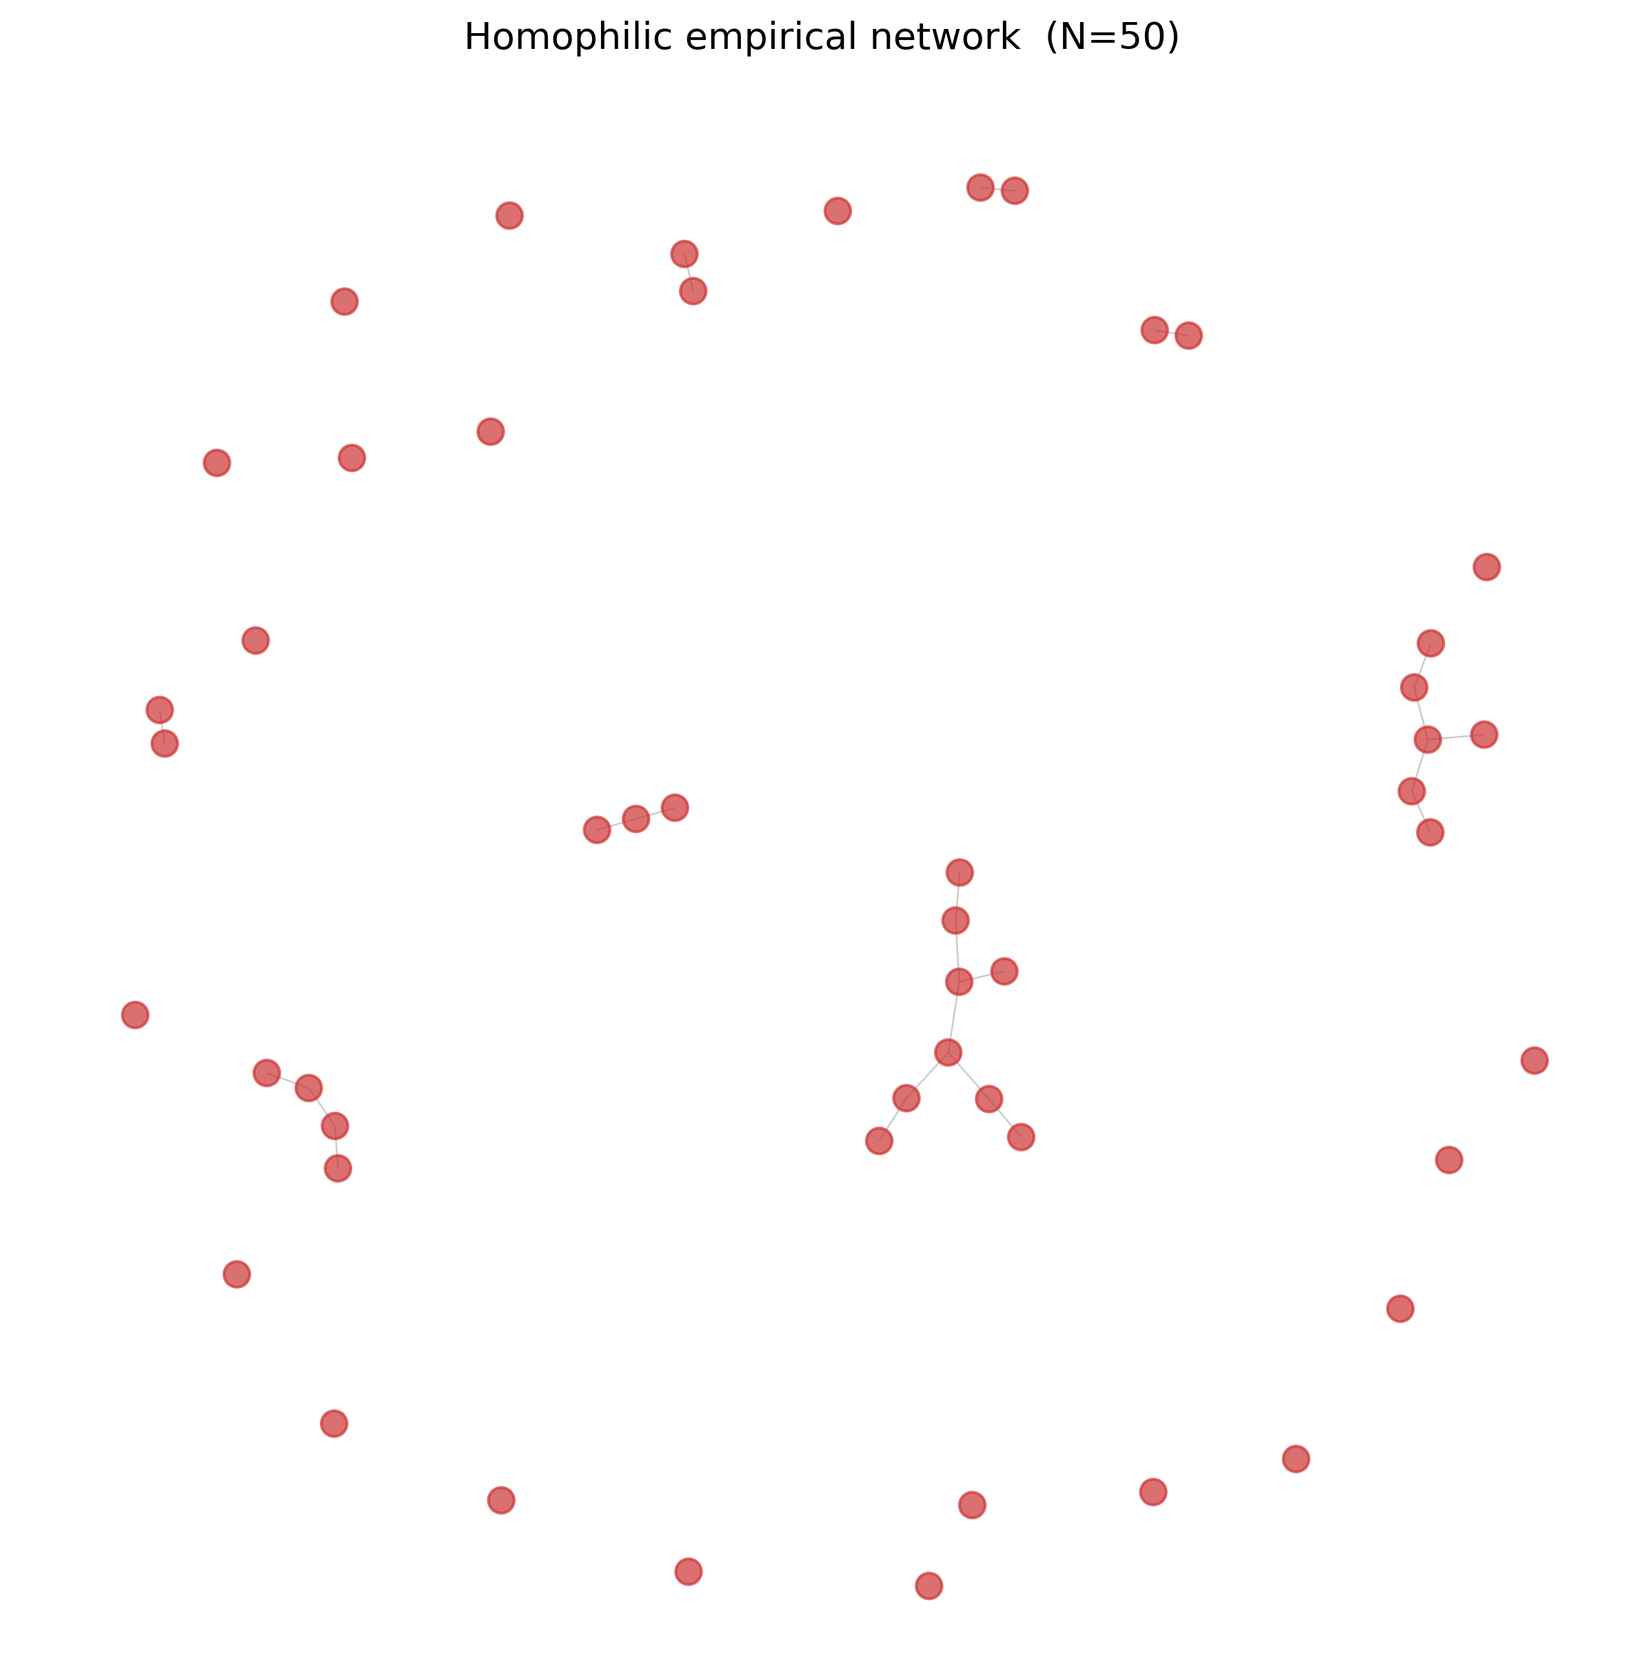
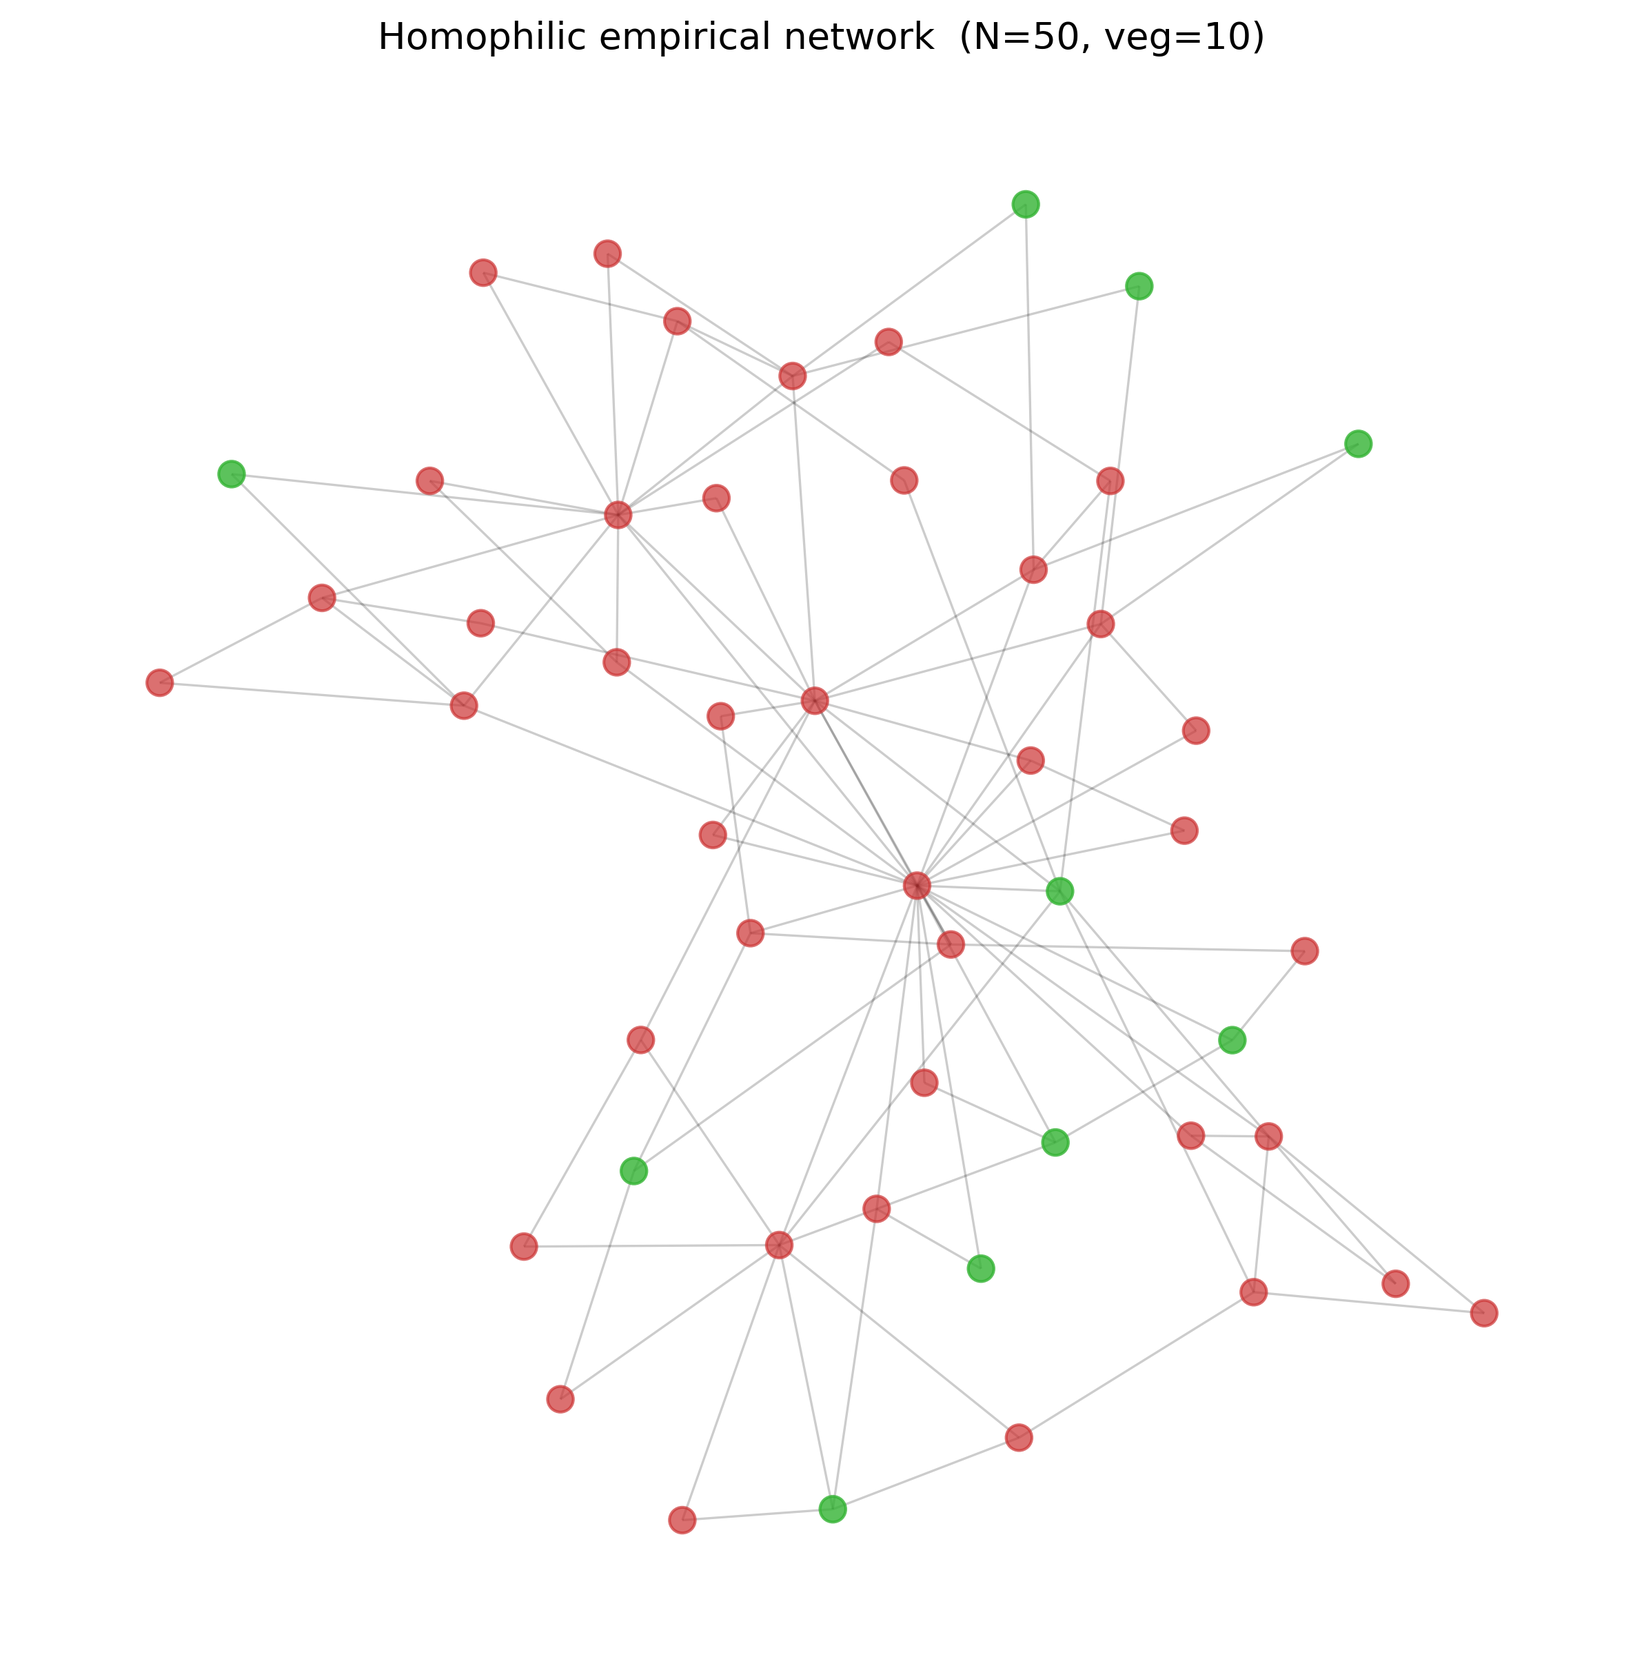
reverting the reduction from cascadde chains

diff --git a/model_src/model_main_cumulative_test.py b/model_src/model_main_cumulative_test.py
@@ -63,7 +63,6 @@ params = {
     "alpha_max": 0.80,
     "mu": 0.3,
     "gamma": 0.3,  # diminishing returns exponent: n contacts from same source -> n^gamma effective
-    "tau_persistence": 5000,  # dwell-time half-saturation (Takaguchi et al. 2012): parent veg duration for temporal weight
 }
 
 
@@ -180,7 +179,7 @@ class Agent():
         self.C = self.diet_emissions(self.diet)
         self.memory = []  # list of (diet, source_id) tuples
         self.survey_id = kwargs.get('survey_id', i)
-        self.reduction_out = 0  # cumulative cascade credit (monotonically non-decreasing; Zhou et al. 2014)
+        self.cumulative_savings = 0  # person-timesteps of cascade influence
         self.diet_duration = 0
         self.diet_history = []
         self.last_change_time = 0
@@ -262,24 +261,6 @@ class Agent():
         H_switch = hamiltonian(1.0 - s_stay, self.theta, self.w_i, self.memory, M, self.rho, self.diet, gate_c, gate_k, tau, mu, gamma)
         return boltzmann_prob(H_switch, H_stay, self.params["beta"])
 
-    def _cascade_attribute(self, delta, influencer, agents_list,
-                           cascade_depth=1, decay=0.7, visited=None):
-        """Propagate emission credit up the influence chain with geometric decay.
-        Cumulative-only (no debits): each conversion event is a time-respecting
-        causal event (Holme & Saramäki 2012). Back-switching is a causally
-        independent event and does not retroactively negate prior credit
-        (Zhou et al. 2014; Liu et al. 2017).
-        No hard depth cap -- decay^d attenuates naturally; visited prevents cycles."""
-        if visited is None:
-            visited = set()
-        if influencer.i in visited:
-            return
-        visited.add(influencer.i)
-        influencer.reduction_out += delta * (decay ** (cascade_depth - 1))
-        if influencer.influence_parent is not None:
-            self._cascade_attribute(delta, agents_list[influencer.influence_parent],
-                                    agents_list, cascade_depth + 1, decay, visited)
-
     def step(self, G, agents, t):
         """Step agent forward one timestep via pairwise interaction."""
         neighbours = [agents[n] for n in G.neighbors(self.i)]
@@ -292,24 +273,16 @@ class Agent():
             old_diet = self.diet
             self.diet = "meat" if self.diet == "veg" else "veg"
             self.C = self.diet_emissions(self.diet)
-            # Use base emissions for stable attribution delta
-            delta = self.C_base["meat"] - self.C_base["veg"]
 
             if old_diet == "meat" and self.diet == "veg":
-                # meat -> veg: credit the influence chain
                 self.influence_parent = other_agent.i
                 self.change_time = t
                 other_agent.influenced_agents.add(self.i)
-                # Temporal weight: established parents earn more credit (Takaguchi et al. 2012)
-                tau_p = self.params.get("tau_persistence", 5000)
-                parent_dur = (t - other_agent.change_time) if other_agent.change_time is not None else t
-                temporal_weight = 1.0 - np.exp(-parent_dur / tau_p)
-                self._cascade_attribute(delta * temporal_weight, other_agent, agents)
 
             elif old_diet == "veg" and self.diet == "meat":
-                # veg -> meat: detach from tree only -- no debits (Holme & Saramäki 2012; Zhou et al. 2014)
                 if self.influence_parent is not None:
-                    agents[self.influence_parent].influenced_agents.discard(self.i)
+                    parent = agents[self.influence_parent]
+                    parent.influenced_agents.discard(self.i)
                     self.influence_parent = None
                     self.change_time = None
         else:
@@ -494,6 +467,17 @@ class Model():
               f"r={np.mean(vals[2]):.2f} t={np.mean(vals[3]):.2f}")
         print(f"Diet: {sum(d=='veg' for d in self.get_attributes('diet'))/len(self.agents):.2f} veg")
 
+    def _accumulate_cascade_savings(self, decay=0.7):
+        """Per-timestep: credit each ancestor for every veg agent in their chain."""
+        for agent in self.agents:
+            if agent.diet == 'veg' and agent.influence_parent is not None:
+                depth, visited, pid = 0, set(), agent.influence_parent
+                while pid is not None and pid not in visited:
+                    visited.add(pid)
+                    self.agents[pid].cumulative_savings += decay ** depth
+                    depth += 1
+                    pid = self.agents[pid].influence_parent
+
     def record_snapshot(self, t):
         try:
             graph_copy = self.G1.copy()
@@ -501,7 +485,8 @@ class Model():
             graph_copy = nx.Graph(self.G1)
         self.snapshots[t] = {
             'diets': self.get_attributes("diet"),
-            'reductions': self.get_attributes("reduction_out"),
+            'reductions': self.get_attributes("cumulative_savings"),
+            'snapshot_t': t if isinstance(t, int) else self.params["steps"],
             'change_times': self.get_attributes("change_time"),
             'alphas': self.get_attributes("alpha"),
             'rhos': self.get_attributes("rho"),
@@ -516,7 +501,7 @@ class Model():
             total = self._count_indirect_influence(agent.i, 0, visited=set())
             stats.append({
                 'agent_id': agent.i, 'direct_influence': direct,
-                'total_cascade': total, 'attributed_reduction': agent.reduction_out,
+                'total_cascade': total, 'attributed_reduction': agent.cumulative_savings,
                 'multiplier': total / direct if direct > 0 else 0
             })
         return pd.DataFrame(stats)
@@ -558,8 +543,8 @@ class Model():
             results.append({
                 'agent_id': agent.i, 'degree': self.G1.degree(agent.i),
                 'max_cascade_depth': depth, 'max_reachable': len(visited) - 1,
-                'theoretical_max_kg': max_red, 'observed_kg': agent.reduction_out,
-                'pct_of_max': (agent.reduction_out / max_red * 100) if max_red > 0 else 0
+                'theoretical_max_kg': max_red, 'observed_kg': agent.cumulative_savings,
+                'pct_of_max': (agent.cumulative_savings / max_red * 100) if max_red > 0 else 0
             })
         inf_bound = delta / (1 - decay)
         avg_deg = np.mean([self.G1.degree(n) for n in self.G1.nodes()])
@@ -634,6 +619,7 @@ class Model():
                 self.agents[i].step(self.G1, self.agents, t)
                 self.rewire(self.agents[i])
 
+            self._accumulate_cascade_savings()
             self.system_C.append(self.get_attribute("C") / self.params["N"])
             self.record_fraction()
 

diff --git a/model_src/model_main_backup_pre_cumulative.py b/model_src/model_main_backup_pre_cumulative.py
@@ -63,7 +63,6 @@ params = {
     "alpha_max": 0.80,
     "mu": 0.3,
     "gamma": 0.3,  # diminishing returns exponent: n contacts from same source -> n^gamma effective
-    "tau_persistence": 5000,  # dwell-time half-saturation (Takaguchi et al. 2012): parent veg duration for temporal weight
 }
 
 
@@ -180,7 +179,7 @@ class Agent():
         self.C = self.diet_emissions(self.diet)
         self.memory = []  # list of (diet, source_id) tuples
         self.survey_id = kwargs.get('survey_id', i)
-        self.reduction_out = 0  # cumulative cascade credit (monotonically non-decreasing; Zhou et al. 2014)
+        self.cumulative_savings = 0
         self.diet_duration = 0
         self.diet_history = []
         self.last_change_time = 0
@@ -262,24 +261,6 @@ class Agent():
         H_switch = hamiltonian(1.0 - s_stay, self.theta, self.w_i, self.memory, M, self.rho, self.diet, gate_c, gate_k, tau, mu, gamma)
         return boltzmann_prob(H_switch, H_stay, self.params["beta"])
 
-    def _cascade_attribute(self, delta, influencer, agents_list,
-                           cascade_depth=1, decay=0.7, visited=None):
-        """Propagate emission credit up the influence chain with geometric decay.
-        Cumulative-only (no debits): each conversion event is a time-respecting
-        causal event (Holme & Saramäki 2012). Back-switching is a causally
-        independent event and does not retroactively negate prior credit
-        (Zhou et al. 2014; Liu et al. 2017).
-        No hard depth cap -- decay^d attenuates naturally; visited prevents cycles."""
-        if visited is None:
-            visited = set()
-        if influencer.i in visited:
-            return
-        visited.add(influencer.i)
-        influencer.reduction_out += delta * (decay ** (cascade_depth - 1))
-        if influencer.influence_parent is not None:
-            self._cascade_attribute(delta, agents_list[influencer.influence_parent],
-                                    agents_list, cascade_depth + 1, decay, visited)
-
     def step(self, G, agents, t):
         """Step agent forward one timestep via pairwise interaction."""
         neighbours = [agents[n] for n in G.neighbors(self.i)]
@@ -300,16 +281,14 @@ class Agent():
                 self.influence_parent = other_agent.i
                 self.change_time = t
                 other_agent.influenced_agents.add(self.i)
-                # Temporal weight: established parents earn more credit (Takaguchi et al. 2012)
-                tau_p = self.params.get("tau_persistence", 5000)
-                parent_dur = (t - other_agent.change_time) if other_agent.change_time is not None else t
-                temporal_weight = 1.0 - np.exp(-parent_dur / tau_p)
-                self._cascade_attribute(delta * temporal_weight, other_agent, agents)
+                self._cascade_attribute(delta, other_agent, agents, sign=1)
 
             elif old_diet == "veg" and self.diet == "meat":
-                # veg -> meat: detach from tree only -- no debits (Holme & Saramäki 2012; Zhou et al. 2014)
+                # veg -> meat: debit the influence chain, then detach
                 if self.influence_parent is not None:
-                    agents[self.influence_parent].influenced_agents.discard(self.i)
+                    parent = agents[self.influence_parent]
+                    self._cascade_attribute(delta, parent, agents, sign=-1)
+                    parent.influenced_agents.discard(self.i)
                     self.influence_parent = None
                     self.change_time = None
         else:
@@ -502,6 +481,7 @@ class Model():
         self.snapshots[t] = {
             'diets': self.get_attributes("diet"),
             'reductions': self.get_attributes("reduction_out"),
+            'peak_reductions': self.get_attributes("peak_reduction_out"),
             'change_times': self.get_attributes("change_time"),
             'alphas': self.get_attributes("alpha"),
             'rhos': self.get_attributes("rho"),

diff --git a/plotting/demo_patch_network.py b/plotting/demo_patch_network.py
@@ -67,11 +67,11 @@ def create_and_visualize_homophilic(N=25, output_file=None, seed=42):
         agents_df = all_agents
 
     # Adjust veg fraction to 6% (same mechanism as main model)
-    agents_df = adjust_veg_fraction(agents_df, target=0.06, seed=seed)
+    agents_df = adjust_veg_fraction(agents_df, target=0.2, seed=seed)
 
     print(f"Generating homophilic_emp network on {len(agents_df)} agents")
     G, _ = generate_homophily_network_v2(
-        N=len(agents_df), avg_degree=8,
+        N=len(agents_df), avg_degree=5,
         agents_df=agents_df,
         attribute_weights=ATTR_WEIGHTS,
         seed=seed, tc=0.7
@@ -81,15 +81,20 @@ def create_and_visualize_homophilic(N=25, output_file=None, seed=42):
     node_colors = [COLOR_VEG if agents_df.iloc[i]['diet'] == 'veg' else COLOR_MEAT
                    for i in range(len(G.nodes()))]
 
+    # Boost same-diet edge weights so connected same-diet nodes attract more strongly in layout
+    for u, v in G.edges():
+        G[u][v]['weight'] = 2.0 if agents_df.iloc[u]['diet'] == agents_df.iloc[v]['diet'] else 1.0
+
     fig, ax = plt.subplots(figsize=(10, 10))
-    pos = nx.spring_layout(G, seed=seed)
+    pos = nx.spring_layout(G, weight='weight', seed=seed)
     nx.draw_networkx(
         G, pos=pos, ax=ax,
         node_color=node_colors, node_size=80,
-        edge_color=[(0, 0, 0, 0.2)], width=0.6,
+        edge_color=[(0, 0, 0, 0.2)], width=0.8,
         with_labels=False
     )
-    ax.set_title(f"Homophilic empirical network  (N={G.number_of_nodes()})", fontsize=13)
+    n_veg = (agents_df['diet'] == 'veg').sum()
+    ax.set_title(f"Homophilic empirical network  (N={G.number_of_nodes()}, veg={n_veg})", fontsize=13)
     ax.axis('off')
 
     out = output_file or 'network_output.png'

diff --git a/plotting/publication_plots_main.py b/plotting/publication_plots_main.py
@@ -193,6 +193,7 @@ def plot_network_agency_evolution(data=None, file_path=None, save=True, log_scal
     # === Bottom-left: Single trajectory with snapshot markers ===
     traj_ax = fig.add_subplot(gs_bot[0, 0])
     if isinstance(trajectory, list):
+        from scipy.ndimage import uniform_filter1d
         t_thousands = np.arange(len(trajectory)) / 1000
         traj_ax.plot(t_thousands, trajectory, color=COLORS['vegetation'], linewidth=1.0, alpha=0.9)
 
@@ -210,6 +211,21 @@ def plot_network_agency_evolution(data=None, file_path=None, save=True, log_scal
             traj_ax.scatter(t_k, trajectory[t_val], color=COLORS['vegetation'],
                           s=14, zorder=5, edgecolors='#333', linewidths=0.4)
             time_labels.append((t_k, t))
+
+        # Tipping point: max of 2nd derivative (max adoption acceleration)
+        COL_TIP = '#9b59b6'  # purple -- no clash with teal/orange/grey/green/gold
+        traj_arr = np.array(trajectory)
+        _window, _burnin = 2000, 5000
+        if len(traj_arr) > _burnin + _window * 2:
+            _sm = uniform_filter1d(traj_arr, size=_window)
+            _d2 = np.gradient(np.gradient(_sm))
+            _d2[:_burnin] = 0
+            _d2[_sm > 0.5] = 0
+            _t_tip = int(np.argmax(_d2))
+            _t_tip_k = _t_tip / 1000
+            traj_ax.axvline(_t_tip_k, color=COL_TIP, linestyle=':', linewidth=0.9, alpha=0.8)
+            print(f"INFO: Tipping point (max d2F/dt2) at t={_t_tip} ({_t_tip_k:.1f}k), "
+                  f"F_veg={traj_arr[_t_tip]:.3f}")
 
     traj_ax.set_ylim(0, 1.0)
     traj_ax.set_xlim(-0.5, len(trajectory) / 1000)

diff --git a/analysis/results_analysis.py b/analysis/results_analysis.py
@@ -319,5 +319,33 @@ def main():
     analysis_5_inflection(smax_all, 'sample-max')
 
 
+def causal_fidelity(snapshots_G, N):
+    """Lentz, Selhorst & Sokolov (2012) PRL 108:228702 causal fidelity.
+
+    c = |temporally-reachable pairs| / |statically-reachable pairs|
+    c < 1 means the static network overestimates cascade reach by factor 1/c.
+    Temporal reachability computed via sequential Boolean matrix products over
+    ordered snapshots (time-respecting paths). Report c in methods section.
+
+    Args:
+        snapshots_G: ordered list of networkx Graph objects (t0, t1, ..., t_end)
+        N: number of nodes
+    Returns:
+        float: causal fidelity c in [0,1]
+    """
+    from scipy.sparse.csgraph import connected_components
+    I = np.eye(N, dtype=bool)
+    P_temp = I.copy()
+    P_static = np.zeros((N, N), dtype=bool)
+    for G in snapshots_G:
+        A = nx.to_numpy_array(G, nodelist=range(N), dtype=bool)
+        P_temp = P_temp @ (I | A)          # Boolean matmul: time-respecting paths
+        P_static |= A
+    # Transitive closure of static via BFS (undirected)
+    n_comp, labels = connected_components(P_static.astype(np.uint8), directed=False)
+    P_static_reach = (labels[:, None] == labels[None, :])
+    return float(P_temp.sum()) / float(P_static_reach.sum())
+
+
 if __name__ == '__main__':
     main()

diff --git a/model_src/model_runn.py b/model_src/model_runn.py
@@ -41,6 +41,7 @@ DEFAULT_PARAMS = {
     "alpha_max": 0.80,     # alpha compression upper bound
     "mu": 0.5,             # status-quo bias strength (currently inactive in model)
     "gamma": 0.3,  # diminishing returns exponent for repeated same-source contacts
+    "tau_persistence": 5000,  # dwell-time half-saturation for temporal cascade weight (Takaguchi et al. 2012)
     "snapshot_dense_start": 12000,  # take snapshots every 2k from this step onwards (0 = disabled)
 }
 

diff --git a/model_src/model_runner_mp.py b/model_src/model_runner_mp.py
@@ -40,6 +40,7 @@ DEFAULT_PARAMS = {
     "alpha_max": 0.85,     # alpha compression upper bound
     "mu": 0.2,             # status-quo bias strength
     "gamma": 0.3,          # diminishing returns exponent for repeated same-source contacts
+    "tau_persistence": 5000,  # dwell-time half-saturation for temporal cascade weight (Takaguchi et al. 2012)
     "snapshot_dense_start": 100000,  # take snapshots every 2k from this step onwards (0 = disabled)
 }
 

diff --git a/model_src/testing/test_alpha_complex_centrality.py b/model_src/testing/test_alpha_complex_centrality.py
@@ -52,7 +52,7 @@ BASE_PARAMS = {
     "survey_file": "../data/hierarchical_agents.csv",
     "adjust_veg_fraction": True, "target_veg_fraction": 0.06,
     "tau": 0.015, "theta_gate_c": 0.35, "theta_gate_k": 25,
-    "mu": 0.2, "gamma": 0.5,
+    "mu": 0.2, "gamma": 0.5, "tau_persistence": 5000,
 }
 
 RUNS_PER_REGIME = 3

diff --git a/model_src/testing/beta_sweep.py b/model_src/testing/beta_sweep.py
@@ -24,6 +24,7 @@ BASE_PARAMS = {
     "tau": 0.015, "theta_gate_c": 0.35, "theta_gate_k": 25,
     "alpha_min": 0.05, "alpha_max": 0.80, "mu": 0.2,
     "gamma": 0.5,
+    "tau_persistence": 5000,
 }
 
 RUNS_PER_BETA = 5
